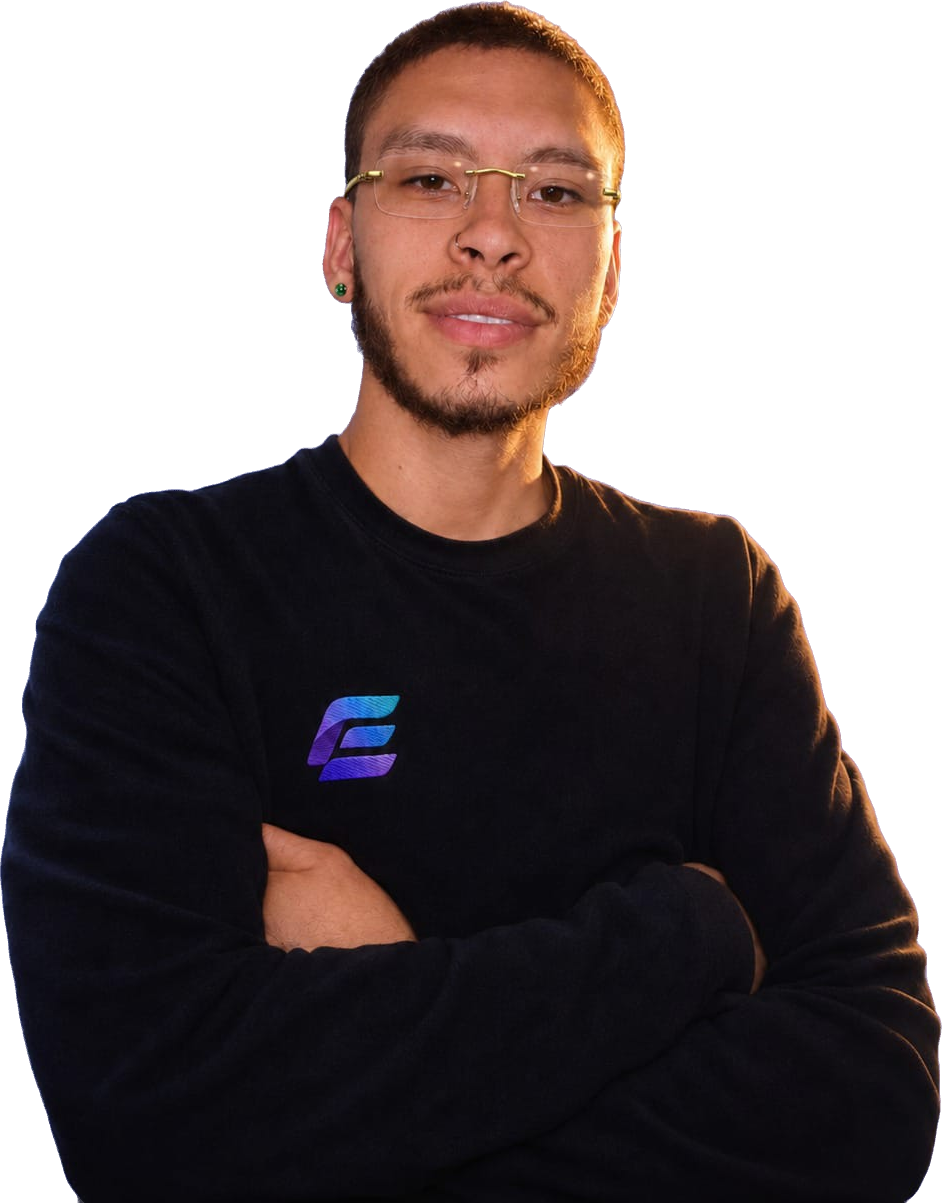
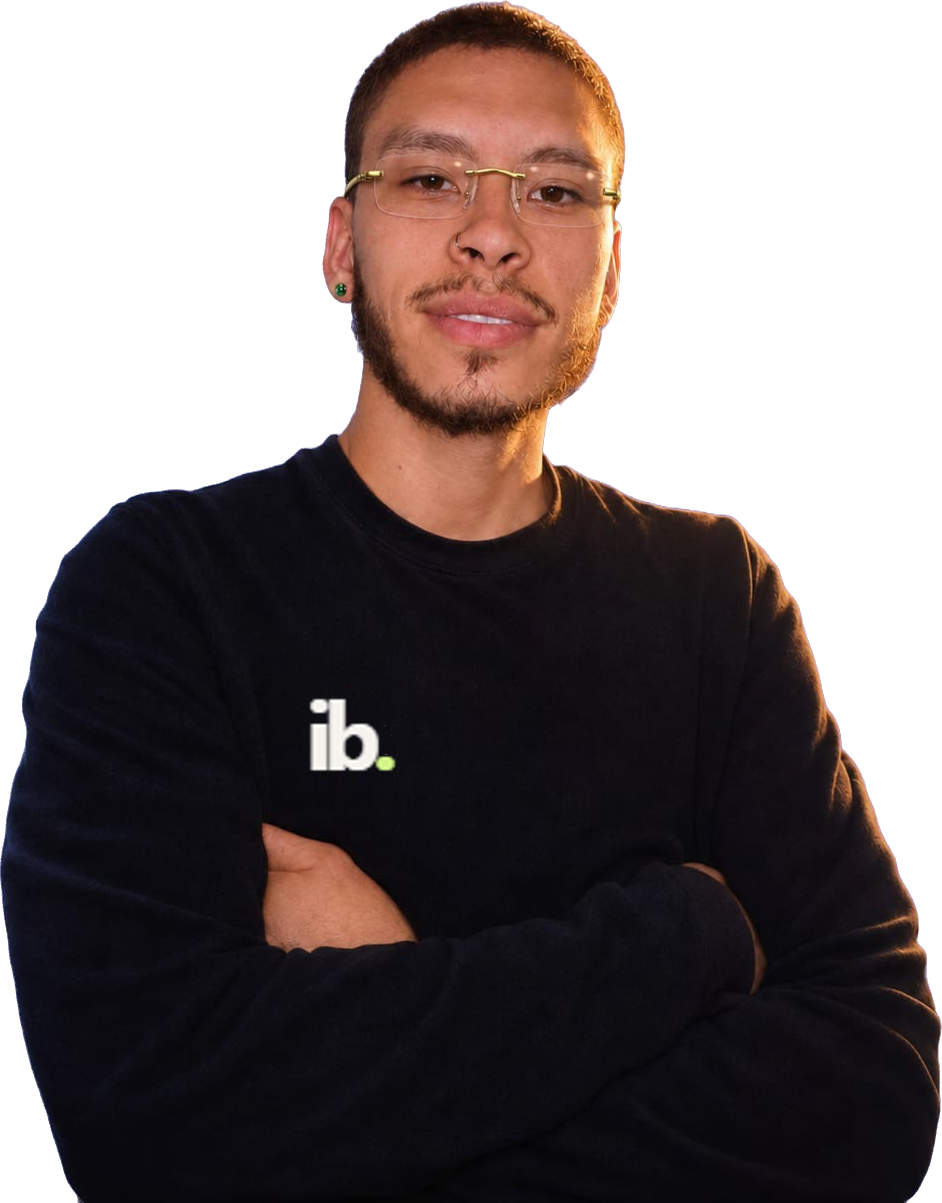
Showcase Ergasia Veltrix and Nexora in the portfolio

Changed region(s): [[0.3079, 0.5536, 0.431, 0.6766]]

diff --git a/src/components/ProjectGallery.vue b/src/components/ProjectGallery.vue
@@ -9,7 +9,13 @@ import {
 } from "vue";
 import TechObject from "./TechObject.vue";
 import resume from "../assets/documents/ismael-blandon-cv.pdf";
-import { orbitFace, shortestTurn, ORBIT_STEP } from "../motion/orbit.mjs";
+import {
+  orbitFace,
+  orbitFrames,
+  orbitTransform,
+  shortestTurn,
+  ORBIT_STEP,
+} from "../motion/orbit.mjs";
 import es from "../locales/es.json";
 import en from "../locales/en.json";
 import health from "../assets/careflow-preview-960.jpg";
@@ -21,6 +27,10 @@ import pawlyLarge from "../assets/pawly-preview-1600.jpg";
 import commerce from "../assets/commerce-preview-960.jpg";
 import commerceLarge from "../assets/commerce-preview-1600.jpg";
 import pleon from "../assets/pleon-store-preview.png";
+import ergasia from "../assets/ergasia-acceso.webp";
+import ergasiaDashboard from "../assets/ergasia-supervision.webp";
+import veltrix from "../assets/veltrix-preview.webp";
+import nexora from "../assets/nexora-preview.webp";
 
 const props = defineProps({ isSpanish: Boolean });
 const c = computed(() => (props.isSpanish ? es : en));
@@ -45,6 +55,28 @@ let observer,
   moveId = 0,
   alive = true;
 const projects = computed(() => [
+  {
+    title: c.value.projects.ergasia.title,
+    description: c.value.projects.ergasia.description,
+    image: ergasia,
+    large: ergasiaDashboard,
+    url: "https://ergasia.pages.dev/",
+    liveLabel: c.value.projects.ergasia.visit,
+  },
+  {
+    title: c.value.projects.veltrix.title,
+    description: c.value.projects.veltrix.description,
+    image: veltrix,
+    large: veltrix,
+    liveLabel: c.value.projects.veltrix.visit,
+  },
+  {
+    title: c.value.projects.nexora.title,
+    description: c.value.projects.nexora.description,
+    image: nexora,
+    large: nexora,
+    liveLabel: c.value.projects.nexora.visit,
+  },
   {
     title: c.value.projects.pleonTitle,
     description: c.value.projects.pleonDescription,
@@ -91,6 +123,9 @@ const projects = computed(() => [
   },
 ]);
 
+const faceCount = projects.value.length + 1;
+const angleStep = 360 / faceCount;
+const depthScale = 1 / (2 * Math.tan(Math.PI / faceCount));
 const current = computed(() =>
   projects.value[Math.min(face.value, projects.value.length - 1)],
 );
@@ -118,29 +153,25 @@ const instruction = computed(() =>
     ? "Pasa el puntero para detener. Explora con las flechas."
     : "Hover to pause. Explore with the arrows.",
 );
-function orbitAnimation() {
-  if (!animation || animation.playState === "idle")
-    animation = ring.value
-      ?.getAnimations()
-      .find((item) => item.animationName === "project-orbit");
-  return animation;
-}
 function sample() {
   timer = 0;
   if (!running.value) return;
-  face.value = orbitFace(orbitAnimation()?.currentTime);
+  face.value = orbitFace(animation?.currentTime, faceCount);
   timer = setTimeout(sample, 100);
 }
 async function playback() {
   await nextTick();
   if (!alive) return;
-  const currentAnimation = orbitAnimation();
   clearTimeout(timer);
   timer = 0;
+  if (!animation) return;
   if (running.value) {
-    currentAnimation?.play();
+    animation.play();
     sample();
-  } else currentAnimation?.pause();
+  } else {
+    animation.pause();
+    if (reduced.value) animation.currentTime = face.value * ORBIT_STEP;
+  }
 }
 function select(index) {
   const from = ring.value ? getComputedStyle(ring.value).transform : "none";
@@ -148,26 +179,24 @@ function select(index) {
   const angle = matrix
     ? (Math.atan2(matrix.m31, matrix.m11) * 180) / Math.PI
     : 0;
-  const target = (index + 6) % 6;
+  const target = (index + faceCount) % faceCount;
   const token = ++moveId;
   manualTween?.cancel();
   manualBusy.value = true;
   face.value = target;
-  const currentAnimation = orbitAnimation();
-  if (currentAnimation) {
-    currentAnimation.pause();
-    currentAnimation.currentTime = target * ORBIT_STEP;
+  if (animation) {
+    animation.pause();
+    animation.currentTime = target * ORBIT_STEP;
   }
   if (reduced.value || !ring.value) {
     manualBusy.value = false;
     return;
   }
-  const radius = ring.value.offsetWidth * (Math.sqrt(3) / 2),
-    turn = shortestTurn(angle, -target * 60);
+  const turn = shortestTurn(angle, -target * angleStep);
   manualTween = ring.value.animate(
     [
       { transform: from },
-      { transform: "translateZ(-" + radius + "px) rotateY(" + turn + "deg)" },
+      { transform: orbitTransform(turn) },
     ],
     {
       duration: Math.max(360, Math.min(720, Math.abs(turn - angle) * 7)),
@@ -239,7 +268,6 @@ onMounted(async () => {
     "change",
     () => {
       reduced.value = preference.matches;
-      animation = null;
       playback();
     },
     { signal },
@@ -258,6 +286,12 @@ onMounted(async () => {
     { threshold: 0.12 },
   );
   observer.observe(stage.value);
+  animation = ring.value.animate(orbitFrames(faceCount), {
+    duration: faceCount * ORBIT_STEP,
+    iterations: Infinity,
+  });
+  animation.pause();
+  animation.currentTime = 0;
   await Promise.allSettled(
     [...ring.value.querySelectorAll("img")].map((image) => image.decode()),
   );
@@ -271,6 +305,7 @@ onBeforeUnmount(() => {
   clearTimeout(timer);
   moveId++;
   manualTween?.cancel();
+  animation?.cancel();
 });
 </script>
 <template>
@@ -294,6 +329,7 @@ onBeforeUnmount(() => {
         <div
           ref="stage"
           class="project-orbit-stage"
+          :style="{ '--ring-depth-scale': depthScale }"
           tabindex="0"
           :aria-label="
             isSpanish
@@ -313,18 +349,17 @@ onBeforeUnmount(() => {
             <div
               ref="ring"
               class="project-orbit-ring"
-              :class="{ 'is-paused': !running }"
-              :style="{ '--manual-angle': -face * 60 + 'deg' }"
+              :style="{ '--manual-angle': -face * angleStep + 'deg' }"
               :data-rotation="running ? 'running' : 'paused'"
               aria-hidden="true"
             >
               <div
                 v-for="(project, i) in projects"
-                :key="project.url"
+                :key="project.title"
                 class="project-orbit-face"
                 :style="{
                   transform:
-                    'rotateY(' + i * 60 + 'deg) translateZ(var(--ring-radius))',
+                    'rotateY(' + i * angleStep + 'deg) translateZ(var(--ring-radius))',
                 }"
               >
                 <img
@@ -342,9 +377,9 @@ onBeforeUnmount(() => {
               </div>
               <div
                 class="project-orbit-face orbit-idea"
-                style="
-                  transform: rotateY(300deg) translateZ(var(--ring-radius));
-                "
+                :style="{
+                  transform: 'rotateY(' + projects.length * angleStep + 'deg) translateZ(var(--ring-radius))',
+                }"
               >
                 <TechObject kind="chip" /><strong>{{
                   isSpanish ? "Tu próxima idea." : "Your next idea."
@@ -367,11 +402,13 @@ onBeforeUnmount(() => {
                   <button class="button primary" @click="openDetails">
                     {{ c.discovery.projectDetails }} ↗</button
                   ><a
+                    v-if="current.url"
                     :href="current.url"
                     target="_blank"
                     rel="noopener noreferrer"
                     :aria-label="(current.liveLabel || c.discovery.demo) + ': ' + current.title"
                     >{{ current.liveLabel || c.discovery.demo }} ↗</a
+                  ><a v-else href="#contact">{{ current.liveLabel }} ↗</a
                   ><a
                     v-if="current.code"
                     :href="current.code"
@@ -415,7 +452,7 @@ onBeforeUnmount(() => {
         <div class="gallery-dots">
           <button
             v-for="(project, i) in projects"
-            :key="project.url"
+            :key="project.title"
             :aria-label="c.discovery.select + ': ' + project.title"
             :aria-pressed="i === face"
             @click="select(i)"
@@ -495,10 +532,13 @@ onBeforeUnmount(() => {
           <div class="actions">
             <a
               class="button primary"
+              v-if="detail.url"
               :href="detail.url"
               target="_blank"
               rel="noopener noreferrer"
               >{{ detail.liveLabel || c.discovery.demo }} ↗</a
+            ><a v-else class="button primary" href="#contact" @click="closeDetails"
+              >{{ detail.liveLabel }} ↗</a
             ><a
               v-if="detail.code"
               class="button secondary"

diff --git a/src/styles/tech-effects.css b/src/styles/tech-effects.css
@@ -318,7 +318,8 @@
   height: 300px;
   touch-action: pan-y;
   --ring-width: 320px;
-  --ring-radius: calc(var(--ring-width) * 0.8660254);
+  --ring-radius: calc(var(--ring-width) * var(--ring-depth-scale));
+  overflow: clip;
 }
 .project-orbit-mount {
   position: absolute;
@@ -333,17 +334,13 @@
   position: absolute;
   inset: 0;
   transform-style: preserve-3d;
-  transform: translateZ(calc(-1 * var(--ring-radius))) rotateY(0deg);
-  animation: project-orbit 12s infinite cubic-bezier(1, 0.015, 0.295, 1.225)
-    forwards;
+  transform: translateZ(calc(-1 * var(--ring-radius)))
+    rotateY(var(--manual-angle, 0deg));
   will-change: transform;
-}
-.project-orbit-ring.is-paused {
-  animation-play-state: paused;
 }
 .project-orbit-face {
   position: absolute;
-  inset: 0;
+  inset: 0 9px;
   border-radius: 12px;
   background: #14201b;
   border: 1px solid #8fb766;
@@ -356,7 +353,7 @@
   display: block;
   width: 100%;
   height: calc(100% - 61px);
-  object-fit: cover;
+  object-fit: contain;
   object-position: center;
   background: #101a13;
 }
@@ -714,7 +711,6 @@
   .project-orbit-stage {
     --ring-width: 200px;
     height: 212px;
-    overflow: visible;
   }
   .project-orbit-mount {
     height: 154px;
@@ -865,49 +861,12 @@
   .workbench-plate {
     transform: none;
   }
-  .project-orbit-ring {
-    animation: none !important;
-    transform: translateZ(calc(-1 * var(--ring-radius)))
-      rotateY(var(--manual-angle, 0deg));
-  }
   .magic-card::before,
   .magic-card::after {
     animation: none !important;
   }
   .portrait-popout {
     filter: none;
-  }
-}
-.project-orbit-ring {
-  animation-timing-function: cubic-bezier(0.22, 0.61, 0.36, 1);
-}
-@keyframes project-orbit {
-  0%,
-  10% {
-    transform: translateZ(calc(-1 * var(--ring-radius))) rotateY(0deg);
-  }
-  16.667%,
-  26.667% {
-    transform: translateZ(calc(-1 * var(--ring-radius))) rotateY(-60deg);
-  }
-  33.333%,
-  43.333% {
-    transform: translateZ(calc(-1 * var(--ring-radius))) rotateY(-120deg);
-  }
-  50%,
-  60% {
-    transform: translateZ(calc(-1 * var(--ring-radius))) rotateY(-180deg);
-  }
-  66.667%,
-  76.667% {
-    transform: translateZ(calc(-1 * var(--ring-radius))) rotateY(-240deg);
-  }
-  83.333%,
-  93.333% {
-    transform: translateZ(calc(-1 * var(--ring-radius))) rotateY(-300deg);
-  }
-  100% {
-    transform: translateZ(calc(-1 * var(--ring-radius))) rotateY(-360deg);
   }
 }
 .orbit-instruction {
@@ -967,16 +926,13 @@
     gap: 12px;
   }
   .gallery-dots button {
-    width: 28px;
+    width: clamp(15px, 4.8vw, 26px);
   }
   .orbit-count {
     min-width: 30px;
   }
 }
 @media (max-width: 370px) {
-  .gallery-dots button {
-    width: 25px;
-  }
   .orbit-interaction .gallery-controls {
     gap: 7px;
   }
